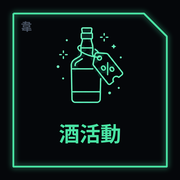
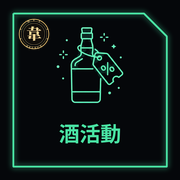
r69: 圖片韋字浮水印；桌面小圖；sw r69

Changed region(s): [[0.0833, 0.0833, 0.2778, 0.2778]]

diff --git a/card.html b/card.html
@@ -208,4 +208,57 @@ function place(){var h=document.getElementById('r16home')||document.getElementBy
 relabel();place();setTimeout(function(){relabel();place();},900);
 })();
 </script><style id="r17-font">html body,html body *:not(svg):not(path):not(circle):not(rect){font-family:"Microsoft JhengHei","微軟正黑體",system-ui,-apple-system,"PingFang TC","Noto Sans TC","Noto Sans CJK TC",sans-serif!important}
-section.card .en,#r16home .en,.en,i.en,.navhead .sub{font-style:normal!important}</style></body></html>
+section.card .en,#r16home .en,.en,i.en,.navhead .sub{font-style:normal!important}</style><script id="wmk">(function(){
+ if(window.__wmk)return;window.__wmk=1;
+ var st=document.createElement('style');
+ st.textContent='[data-wmk]::after{content:"";position:absolute;left:var(--wx);top:var(--wy);width:var(--ws);height:var(--ws);pointer-events:none;background:url(img/brand/wm.webp) center/contain no-repeat;opacity:.92;z-index:2;filter:drop-shadow(0 1px 2px rgba(0,0,0,.5))}';
+ document.head.appendChild(st);
+ function skip(im){var s=im.getAttribute('src')||im.currentSrc||'';return /pst_|\/brand\/|icon-|wm\.webp|^data:/.test(s);}
+ function corner(im,s){
+  var k='__wc'+s;if(im[k])return im[k];var c='tr';
+  try{var W=48,H=Math.max(8,Math.round(48*im.naturalHeight/im.naturalWidth)),cv=document.createElement('canvas');cv.width=W;cv.height=H;var x=cv.getContext('2d');x.drawImage(im,0,0,W,H);var d=x.getImageData(0,0,W,H).data;
+   var r=Math.max(3,Math.round(W*s/im.clientWidth))+1,best=1e9;
+   [['tr',W-r,0],['tl',0,0],['br',W-r,H-r],['bl',0,H-r]].forEach(function(q){var n=0,m=[0,0,0],v=0,px=[];for(var yy=q[2];yy<q[2]+r;yy++)for(var xx=q[1];xx<q[1]+r;xx++){var i=(yy*W+xx)*4;if(d[i+3]<20){px.push(null);continue;}px.push([d[i],d[i+1],d[i+2]]);}
+    var ok=px.filter(Boolean);if(!ok.length){v=0;}else{ok.forEach(function(a){m[0]+=a[0];m[1]+=a[1];m[2]+=a[2];});m=m.map(function(t){return t/ok.length;});ok.forEach(function(a){v+=Math.abs(a[0]-m[0])+Math.abs(a[1]-m[1])+Math.abs(a[2]-m[2]);});v=v/ok.length;}
+    if(v<best-4){best=v;c=q[0];}});
+  }catch(e){c='tr';}
+  im[k]=c;return c;}
+ function place(im){
+  if(skip(im))return;
+  var pa=im.parentElement;if(!pa)return;
+  if(pa.__wimg&&pa.__wimg!==im)return;
+  var w=im.clientWidth,h=im.clientHeight;
+  if(w<120||h<90||!im.offsetParent){if(pa.hasAttribute('data-wmk'))pa.removeAttribute('data-wmk');return;}
+  if(!pa.__wchk){pa.__wchk=1;var cs=getComputedStyle(pa),ca=getComputedStyle(pa,'::after').content;
+   if(ca&&ca!=='none'&&ca!=='normal'){pa.__wno=1;}
+   else if(cs.position==='static'){var abs=[].some.call(pa.children,function(c){return c!==im&&/absolute|fixed/.test(getComputedStyle(c).position);});if(abs)pa.__wno=1;else pa.style.position='relative';}}
+  if(pa.__wno)return;pa.__wimg=im;
+  var s=Math.round(Math.max(26,Math.min(52,w*0.14))),g=Math.round(s*0.2);
+  var pr=pa.getBoundingClientRect(),ir=im.getBoundingClientRect();
+  var bx=ir.left-pr.left-(pa.clientLeft||0)+pa.scrollLeft,by=ir.top-pr.top-(pa.clientTop||0)+pa.scrollTop;
+  var c=im.complete&&im.naturalWidth?corner(im,s):'tr';
+  pa.style.setProperty('--ws',s+'px');
+  pa.style.setProperty('--wx',Math.round(c.charAt(1)==='r'?bx+w-s-g:bx+g)+'px');
+  pa.style.setProperty('--wy',Math.round(c.charAt(0)==='t'?by+g:by+h-s-g)+'px');
+  if(!pa.hasAttribute('data-wmk'))pa.setAttribute('data-wmk','');
+  if(ro&&!im.__wro0){im.__wro0=1;ro.observe(im);}
+ }
+ var Q=[],qt=0,lastS=0;
+ window.addEventListener('scroll',function(){lastS=Date.now();},{passive:true,capture:true});
+ var ric=window.requestIdleCallback||function(f){return setTimeout(function(){f({timeRemaining:function(){return 8;}});},50);};
+ function flush(){qt=0;if(Date.now()-lastS<250){qt=setTimeout(flush,300);return;}qt=1;ric(function(dl){qt=0;var n=0;while(Q.length&&(n<3||dl.timeRemaining()>4)){var im=Q.shift();n++;if(im.__wq){im.__wq=0;place(im);}}if(Q.length&&!qt)qt=setTimeout(flush,200);},{timeout:3000});}
+ function near(im){var r=im.getBoundingClientRect();return r.width>0&&r.bottom>-300&&r.top<innerHeight+300;}
+ function want(im){if(im.__wq)return;im.__wq=1;Q.push(im);if(!qt)qt=setTimeout(flush,400);}
+ var io='IntersectionObserver' in window?new IntersectionObserver(function(es){es.forEach(function(e){if(e.isIntersecting)want(e.target);});},{rootMargin:'200px'}):null;
+ var ro='ResizeObserver' in window?new ResizeObserver(function(es){es.forEach(function(e){var t=e.target;if(t.__wro){want(t);}else t.__wro=1;});}):null;
+ function hook(im){if(im.__wmh)return;im.__wmh=1;if(skip(im))return;im.addEventListener('load',function(){if(io){io.unobserve(im);io.observe(im);}});if(io)io.observe(im);}
+ function scan(root){[].forEach.call(root.querySelectorAll('img'),hook);}
+ function all(root){if(!io)return;[].forEach.call((root&&root.querySelectorAll?root:document).querySelectorAll('img'),function(im){if(im.__wmh&&!skip(im)){io.unobserve(im);io.observe(im);}});}
+ function start(){scan(document);new MutationObserver(function(ms){ms.forEach(function(mu){[].forEach.call(mu.addedNodes,function(n){if(n.nodeType!==1)return;if(n.tagName==='IMG')hook(n);else if(n.querySelectorAll)scan(n);});});}).observe(document.body,{childList:true,subtree:true});
+  var t;window.addEventListener('resize',function(){clearTimeout(t);t=setTimeout(all,150);});
+  document.addEventListener('toggle',function(e){var t=e.target;setTimeout(function(){all(t);},60);},true);
+}
+ function later(){setTimeout(function(){(window.requestIdleCallback||setTimeout)(start,{timeout:4000});},1800);}
+ if(document.readyState==='complete')later();else window.addEventListener('load',later);
+})();
+</script></body></html>

diff --git a/index.html b/index.html
@@ -1742,5 +1742,58 @@ function place(){var h=document.getElementById('r16home')||document.getElementBy
 relabel();place();setTimeout(function(){relabel();place();},900);
 })();
 </script><style id="r17-font">html body,html body *:not(svg):not(path):not(circle):not(rect){font-family:"Microsoft JhengHei","微軟正黑體",system-ui,-apple-system,"PingFang TC","Noto Sans TC","Noto Sans CJK TC",sans-serif!important}
-section.card .en,#r16home .en,.en,i.en,.navhead .sub{font-style:normal!important}</style></body>
+section.card .en,#r16home .en,.en,i.en,.navhead .sub{font-style:normal!important}</style><script id="wmk">(function(){
+ if(window.__wmk)return;window.__wmk=1;
+ var st=document.createElement('style');
+ st.textContent='[data-wmk]::after{content:"";position:absolute;left:var(--wx);top:var(--wy);width:var(--ws);height:var(--ws);pointer-events:none;background:url(img/brand/wm.webp) center/contain no-repeat;opacity:.92;z-index:2;filter:drop-shadow(0 1px 2px rgba(0,0,0,.5))}';
+ document.head.appendChild(st);
+ function skip(im){var s=im.getAttribute('src')||im.currentSrc||'';return /pst_|\/brand\/|icon-|wm\.webp|^data:/.test(s);}
+ function corner(im,s){
+  var k='__wc'+s;if(im[k])return im[k];var c='tr';
+  try{var W=48,H=Math.max(8,Math.round(48*im.naturalHeight/im.naturalWidth)),cv=document.createElement('canvas');cv.width=W;cv.height=H;var x=cv.getContext('2d');x.drawImage(im,0,0,W,H);var d=x.getImageData(0,0,W,H).data;
+   var r=Math.max(3,Math.round(W*s/im.clientWidth))+1,best=1e9;
+   [['tr',W-r,0],['tl',0,0],['br',W-r,H-r],['bl',0,H-r]].forEach(function(q){var n=0,m=[0,0,0],v=0,px=[];for(var yy=q[2];yy<q[2]+r;yy++)for(var xx=q[1];xx<q[1]+r;xx++){var i=(yy*W+xx)*4;if(d[i+3]<20){px.push(null);continue;}px.push([d[i],d[i+1],d[i+2]]);}
+    var ok=px.filter(Boolean);if(!ok.length){v=0;}else{ok.forEach(function(a){m[0]+=a[0];m[1]+=a[1];m[2]+=a[2];});m=m.map(function(t){return t/ok.length;});ok.forEach(function(a){v+=Math.abs(a[0]-m[0])+Math.abs(a[1]-m[1])+Math.abs(a[2]-m[2]);});v=v/ok.length;}
+    if(v<best-4){best=v;c=q[0];}});
+  }catch(e){c='tr';}
+  im[k]=c;return c;}
+ function place(im){
+  if(skip(im))return;
+  var pa=im.parentElement;if(!pa)return;
+  if(pa.__wimg&&pa.__wimg!==im)return;
+  var w=im.clientWidth,h=im.clientHeight;
+  if(w<120||h<90||!im.offsetParent){if(pa.hasAttribute('data-wmk'))pa.removeAttribute('data-wmk');return;}
+  if(!pa.__wchk){pa.__wchk=1;var cs=getComputedStyle(pa),ca=getComputedStyle(pa,'::after').content;
+   if(ca&&ca!=='none'&&ca!=='normal'){pa.__wno=1;}
+   else if(cs.position==='static'){var abs=[].some.call(pa.children,function(c){return c!==im&&/absolute|fixed/.test(getComputedStyle(c).position);});if(abs)pa.__wno=1;else pa.style.position='relative';}}
+  if(pa.__wno)return;pa.__wimg=im;
+  var s=Math.round(Math.max(26,Math.min(52,w*0.14))),g=Math.round(s*0.2);
+  var pr=pa.getBoundingClientRect(),ir=im.getBoundingClientRect();
+  var bx=ir.left-pr.left-(pa.clientLeft||0)+pa.scrollLeft,by=ir.top-pr.top-(pa.clientTop||0)+pa.scrollTop;
+  var c=im.complete&&im.naturalWidth?corner(im,s):'tr';
+  pa.style.setProperty('--ws',s+'px');
+  pa.style.setProperty('--wx',Math.round(c.charAt(1)==='r'?bx+w-s-g:bx+g)+'px');
+  pa.style.setProperty('--wy',Math.round(c.charAt(0)==='t'?by+g:by+h-s-g)+'px');
+  if(!pa.hasAttribute('data-wmk'))pa.setAttribute('data-wmk','');
+  if(ro&&!im.__wro0){im.__wro0=1;ro.observe(im);}
+ }
+ var Q=[],qt=0,lastS=0;
+ window.addEventListener('scroll',function(){lastS=Date.now();},{passive:true,capture:true});
+ var ric=window.requestIdleCallback||function(f){return setTimeout(function(){f({timeRemaining:function(){return 8;}});},50);};
+ function flush(){qt=0;if(Date.now()-lastS<250){qt=setTimeout(flush,300);return;}qt=1;ric(function(dl){qt=0;var n=0;while(Q.length&&(n<3||dl.timeRemaining()>4)){var im=Q.shift();n++;if(im.__wq){im.__wq=0;place(im);}}if(Q.length&&!qt)qt=setTimeout(flush,200);},{timeout:3000});}
+ function near(im){var r=im.getBoundingClientRect();return r.width>0&&r.bottom>-300&&r.top<innerHeight+300;}
+ function want(im){if(im.__wq)return;im.__wq=1;Q.push(im);if(!qt)qt=setTimeout(flush,400);}
+ var io='IntersectionObserver' in window?new IntersectionObserver(function(es){es.forEach(function(e){if(e.isIntersecting)want(e.target);});},{rootMargin:'200px'}):null;
+ var ro='ResizeObserver' in window?new ResizeObserver(function(es){es.forEach(function(e){var t=e.target;if(t.__wro){want(t);}else t.__wro=1;});}):null;
+ function hook(im){if(im.__wmh)return;im.__wmh=1;if(skip(im))return;im.addEventListener('load',function(){if(io){io.unobserve(im);io.observe(im);}});if(io)io.observe(im);}
+ function scan(root){[].forEach.call(root.querySelectorAll('img'),hook);}
+ function all(root){if(!io)return;[].forEach.call((root&&root.querySelectorAll?root:document).querySelectorAll('img'),function(im){if(im.__wmh&&!skip(im)){io.unobserve(im);io.observe(im);}});}
+ function start(){scan(document);new MutationObserver(function(ms){ms.forEach(function(mu){[].forEach.call(mu.addedNodes,function(n){if(n.nodeType!==1)return;if(n.tagName==='IMG')hook(n);else if(n.querySelectorAll)scan(n);});});}).observe(document.body,{childList:true,subtree:true});
+  var t;window.addEventListener('resize',function(){clearTimeout(t);t=setTimeout(all,150);});
+  document.addEventListener('toggle',function(e){var t=e.target;setTimeout(function(){all(t);},60);},true);
+}
+ function later(){setTimeout(function(){(window.requestIdleCallback||setTimeout)(start,{timeout:4000});},1800);}
+ if(document.readyState==='complete')later();else window.addEventListener('load',later);
+})();
+</script></body>
 </html>

diff --git a/calendar.html b/calendar.html
@@ -829,5 +829,58 @@ section.card{color:#111!important}
 }
 </style><script id="r19-dk-js">
 </script><style id="r17-font">html body,html body *:not(svg):not(path):not(circle):not(rect){font-family:"Microsoft JhengHei","微軟正黑體",system-ui,-apple-system,"PingFang TC","Noto Sans TC","Noto Sans CJK TC",sans-serif!important}
-section.card .en,#r16home .en,.en,i.en,.navhead .sub{font-style:normal!important}</style></body>
+section.card .en,#r16home .en,.en,i.en,.navhead .sub{font-style:normal!important}</style><script id="wmk">(function(){
+ if(window.__wmk)return;window.__wmk=1;
+ var st=document.createElement('style');
+ st.textContent='[data-wmk]::after{content:"";position:absolute;left:var(--wx);top:var(--wy);width:var(--ws);height:var(--ws);pointer-events:none;background:url(img/brand/wm.webp) center/contain no-repeat;opacity:.92;z-index:2;filter:drop-shadow(0 1px 2px rgba(0,0,0,.5))}';
+ document.head.appendChild(st);
+ function skip(im){var s=im.getAttribute('src')||im.currentSrc||'';return /pst_|\/brand\/|icon-|wm\.webp|^data:/.test(s);}
+ function corner(im,s){
+  var k='__wc'+s;if(im[k])return im[k];var c='tr';
+  try{var W=48,H=Math.max(8,Math.round(48*im.naturalHeight/im.naturalWidth)),cv=document.createElement('canvas');cv.width=W;cv.height=H;var x=cv.getContext('2d');x.drawImage(im,0,0,W,H);var d=x.getImageData(0,0,W,H).data;
+   var r=Math.max(3,Math.round(W*s/im.clientWidth))+1,best=1e9;
+   [['tr',W-r,0],['tl',0,0],['br',W-r,H-r],['bl',0,H-r]].forEach(function(q){var n=0,m=[0,0,0],v=0,px=[];for(var yy=q[2];yy<q[2]+r;yy++)for(var xx=q[1];xx<q[1]+r;xx++){var i=(yy*W+xx)*4;if(d[i+3]<20){px.push(null);continue;}px.push([d[i],d[i+1],d[i+2]]);}
+    var ok=px.filter(Boolean);if(!ok.length){v=0;}else{ok.forEach(function(a){m[0]+=a[0];m[1]+=a[1];m[2]+=a[2];});m=m.map(function(t){return t/ok.length;});ok.forEach(function(a){v+=Math.abs(a[0]-m[0])+Math.abs(a[1]-m[1])+Math.abs(a[2]-m[2]);});v=v/ok.length;}
+    if(v<best-4){best=v;c=q[0];}});
+  }catch(e){c='tr';}
+  im[k]=c;return c;}
+ function place(im){
+  if(skip(im))return;
+  var pa=im.parentElement;if(!pa)return;
+  if(pa.__wimg&&pa.__wimg!==im)return;
+  var w=im.clientWidth,h=im.clientHeight;
+  if(w<120||h<90||!im.offsetParent){if(pa.hasAttribute('data-wmk'))pa.removeAttribute('data-wmk');return;}
+  if(!pa.__wchk){pa.__wchk=1;var cs=getComputedStyle(pa),ca=getComputedStyle(pa,'::after').content;
+   if(ca&&ca!=='none'&&ca!=='normal'){pa.__wno=1;}
+   else if(cs.position==='static'){var abs=[].some.call(pa.children,function(c){return c!==im&&/absolute|fixed/.test(getComputedStyle(c).position);});if(abs)pa.__wno=1;else pa.style.position='relative';}}
+  if(pa.__wno)return;pa.__wimg=im;
+  var s=Math.round(Math.max(26,Math.min(52,w*0.14))),g=Math.round(s*0.2);
+  var pr=pa.getBoundingClientRect(),ir=im.getBoundingClientRect();
+  var bx=ir.left-pr.left-(pa.clientLeft||0)+pa.scrollLeft,by=ir.top-pr.top-(pa.clientTop||0)+pa.scrollTop;
+  var c=im.complete&&im.naturalWidth?corner(im,s):'tr';
+  pa.style.setProperty('--ws',s+'px');
+  pa.style.setProperty('--wx',Math.round(c.charAt(1)==='r'?bx+w-s-g:bx+g)+'px');
+  pa.style.setProperty('--wy',Math.round(c.charAt(0)==='t'?by+g:by+h-s-g)+'px');
+  if(!pa.hasAttribute('data-wmk'))pa.setAttribute('data-wmk','');
+  if(ro&&!im.__wro0){im.__wro0=1;ro.observe(im);}
+ }
+ var Q=[],qt=0,lastS=0;
+ window.addEventListener('scroll',function(){lastS=Date.now();},{passive:true,capture:true});
+ var ric=window.requestIdleCallback||function(f){return setTimeout(function(){f({timeRemaining:function(){return 8;}});},50);};
+ function flush(){qt=0;if(Date.now()-lastS<250){qt=setTimeout(flush,300);return;}qt=1;ric(function(dl){qt=0;var n=0;while(Q.length&&(n<3||dl.timeRemaining()>4)){var im=Q.shift();n++;if(im.__wq){im.__wq=0;place(im);}}if(Q.length&&!qt)qt=setTimeout(flush,200);},{timeout:3000});}
+ function near(im){var r=im.getBoundingClientRect();return r.width>0&&r.bottom>-300&&r.top<innerHeight+300;}
+ function want(im){if(im.__wq)return;im.__wq=1;Q.push(im);if(!qt)qt=setTimeout(flush,400);}
+ var io='IntersectionObserver' in window?new IntersectionObserver(function(es){es.forEach(function(e){if(e.isIntersecting)want(e.target);});},{rootMargin:'200px'}):null;
+ var ro='ResizeObserver' in window?new ResizeObserver(function(es){es.forEach(function(e){var t=e.target;if(t.__wro){want(t);}else t.__wro=1;});}):null;
+ function hook(im){if(im.__wmh)return;im.__wmh=1;if(skip(im))return;im.addEventListener('load',function(){if(io){io.unobserve(im);io.observe(im);}});if(io)io.observe(im);}
+ function scan(root){[].forEach.call(root.querySelectorAll('img'),hook);}
+ function all(root){if(!io)return;[].forEach.call((root&&root.querySelectorAll?root:document).querySelectorAll('img'),function(im){if(im.__wmh&&!skip(im)){io.unobserve(im);io.observe(im);}});}
+ function start(){scan(document);new MutationObserver(function(ms){ms.forEach(function(mu){[].forEach.call(mu.addedNodes,function(n){if(n.nodeType!==1)return;if(n.tagName==='IMG')hook(n);else if(n.querySelectorAll)scan(n);});});}).observe(document.body,{childList:true,subtree:true});
+  var t;window.addEventListener('resize',function(){clearTimeout(t);t=setTimeout(all,150);});
+  document.addEventListener('toggle',function(e){var t=e.target;setTimeout(function(){all(t);},60);},true);
+}
+ function later(){setTimeout(function(){(window.requestIdleCallback||setTimeout)(start,{timeout:4000});},1800);}
+ if(document.readyState==='complete')later();else window.addEventListener('load',later);
+})();
+</script></body>
 </html>

diff --git a/sw.js b/sw.js
@@ -1,5 +1,5 @@
 /* r56：頁面先開手機存好的版本、背景只在有變時更新；圖片字型快取跨版本保留 */
-const V = 'v2026-10-15-r62';
+const V = 'v2026-10-15-r69';
 const P = self.registration.scope + '|';
 const CORE = ['./', './index.html', './img/brand/hero.webp', './icon-192.png'];
 self.addEventListener('install', e => {
